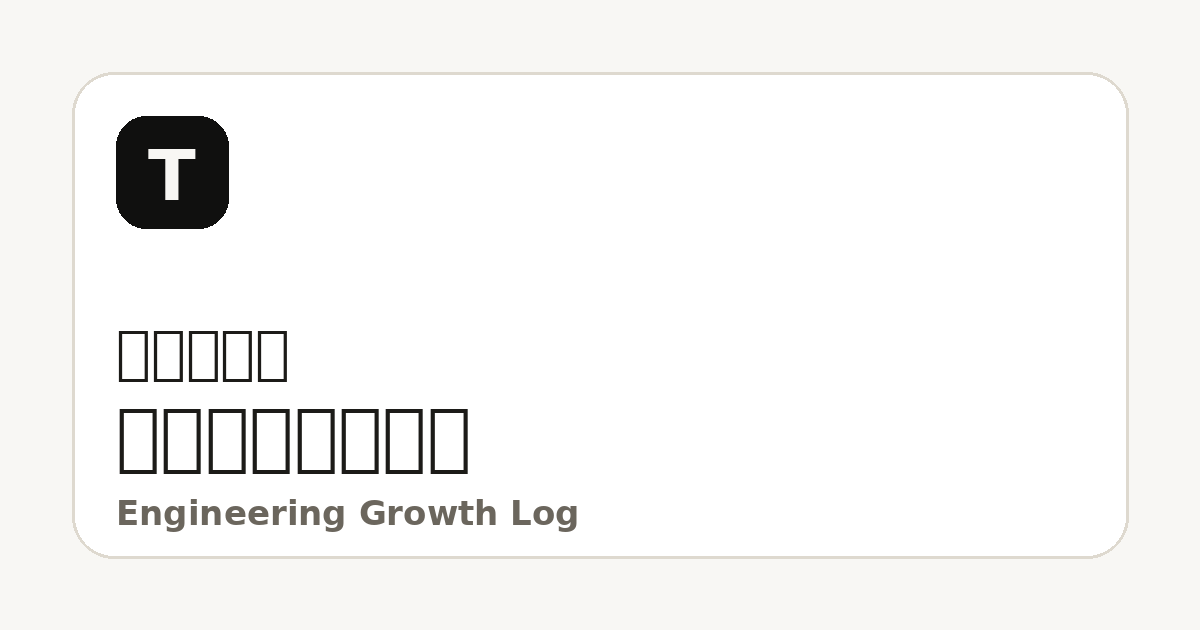
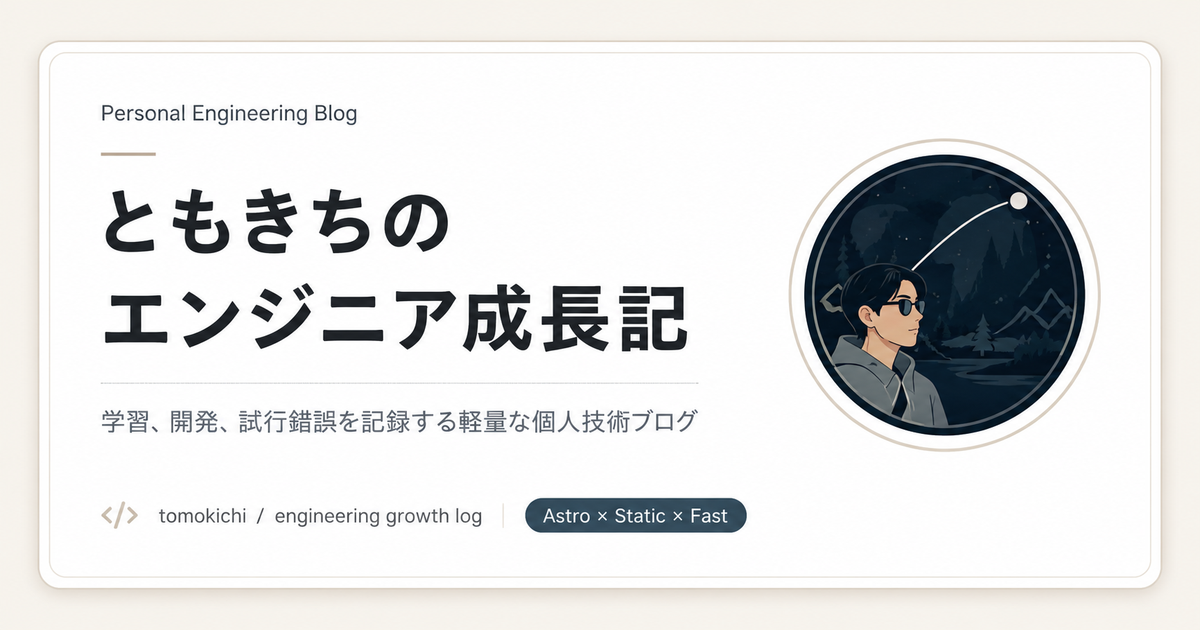
chore:Replace OG image with new one. And switch new privacy policy

diff --git a/src/site.config.ts b/src/site.config.ts
@@ -9,8 +9,8 @@ export const siteConfig = {
     en: "Tomokichi's Engineering Growth Log",
   },
   description: {
-    ja: "エンジニアとしての学習、開発、試行錯誤を記録する個人技術ブログです。",
-    en: "A personal engineering blog about learning, building, and growing as a developer.",
+    ja: "個人開発、Web開発、AI活用、設計、運用改善の試行錯誤を記録する、軽量で高速な個人技術ブログです。",
+    en: "A lightweight personal engineering blog about indie development, web engineering, AI-assisted work, product design, and operational improvements.",
   },
   author: "Tomokichi",
   bio: {